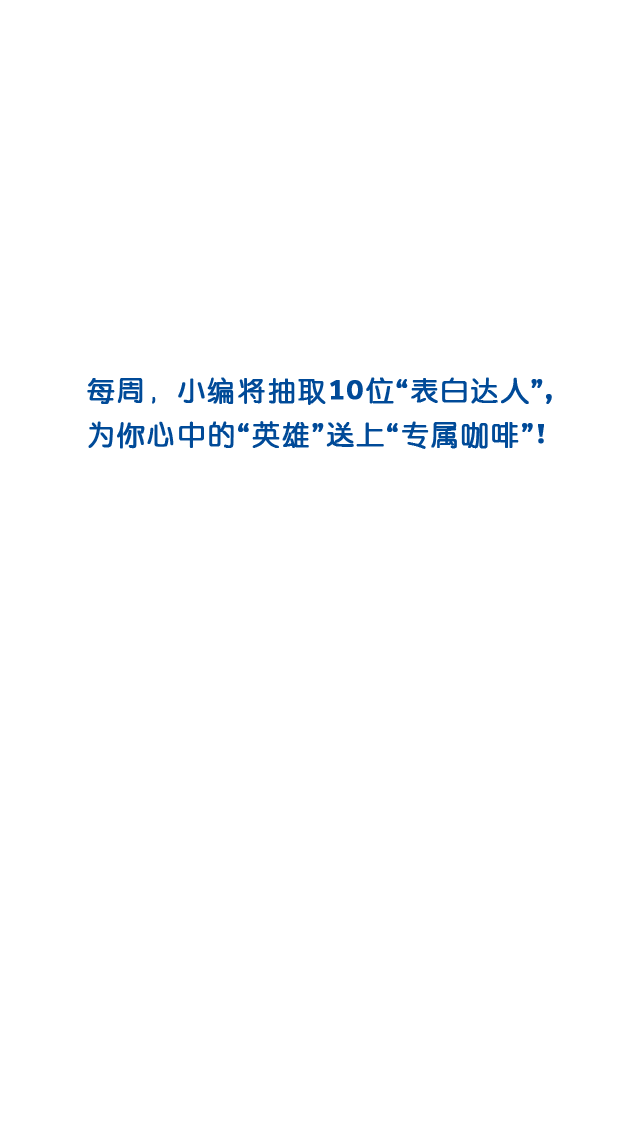
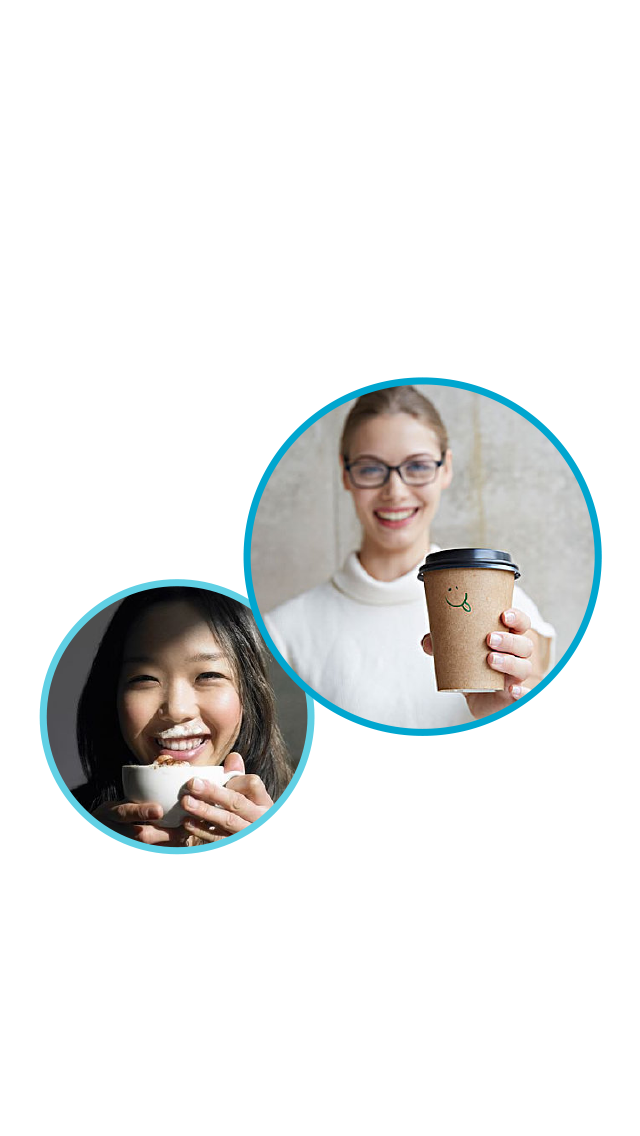
moha 7.x-1.0-dev
- Moha Message: merge design.

Changed region(s): [[0.0625, 0.3081, 0.9375, 0.7702]]

diff --git a/modules/moha_message/templates/moha_message_wall_say_thank_you.tpl.php b/modules/moha_message/templates/moha_message_wall_say_thank_you.tpl.php
@@ -1,19 +1,114 @@
+<style>
+  @keyframes rotating {
+    from {
+      transform: rotate(0deg)
+    }
+    to {
+      transform: rotate(360deg)
+    }
+  }
+
+  @-moz-keyframes rotating {
+    from {
+      -moz-transform: rotate(0deg)
+    }
+    to {
+      -moz-transform: rotate(360deg)
+    }
+  }
+
+  #moha-music-wrap {
+    position: absolute;
+    z-index: 200;
+    top: 20px;
+    left: 20px;
+    width: 50px;
+    height: 50px;
+    background-size: contain;
+  }
+
+  #moha-music-wrap.rotate {
+    background-image: url("/sites/all/modules/custom/moha/img/music.gif");
+  }
+
+  #moha-music-button {
+    width: 30px;
+    height: 30px;
+    background: url("/sites/all/modules/custom/moha/img/music.svg") no-repeat;
+    background-size: contain;
+  }
+
+  .rotate #moha-music-button {
+    -webkit-animation: rotating 1.2s linear infinite;
+    -moz-animation: rotating 1.2s linear infinite;
+    -o-animation: rotating 1.2s linear infinite;
+    animation: rotating 1.2s linear infinite;
+  }
+
+  #logo {
+    position: absolute;
+    right: 10px;
+    top: 10px;
+    z-index: 200;
+  }
+
+  #logo img {
+    width: 50px;
+  }
+
+  img.melody {
+    margin-top: -20px;
+  }
+
+  .background {
+    height: 100%;
+    width: 100%;
+  }
+
+  .background img {
+    height: 100%;
+    width: 100%;
+  }
+
+  .moha-1-arrow {
+    margin-bottom: -20px;
+  }
+
+  .moha-2-arrow {
+    margin-left: -45%;
+    margin-bottom: -20px;
+  }
+</style>
+
+<div id="moha-music-wrap">
+  <div id="moha-music-button">
+    <audio id="moha-music" autoplay preload="auto" loop="loop" src="https://gestorage.blob.core.chinacloudapi.cn/campaign/20180515/389429-Uplifting-Joyful-Funny.mp3"></audio>
+  </div>
+</div>
+<div id="logo"><img src="https://gestorage.blob.core.chinacloudapi.cn/campaign/common/ge-logo-blue.png"></div>
 <div id="moha-message-wall-say-thank-you" class="swiper-container">
   <div class="swiper-wrapper">
     <div class="moha-message-cover-html swiper-slide">
-      <div class="moha-message-cover-next">
-        <img src="/sites/all/modules/custom/moha/modules/moha_message/img/message-cover-1-button.png">
+      <div class="moha-message-cover-next background">
+        <img src="/sites/all/modules/custom/moha/modules/moha_message/img/message-cover-1-background.jpg">
       </div>
+      <div class="moha-message-cover-next"><img class="moha-1-arrow" src="https://gestorage.blob.core.chinacloudapi.cn/campaign/20180515/arrow-down.gif"></div>
       <img src="/sites/all/modules/custom/moha/modules/moha_message/img/message-cover-1-contents.png">
-      <div id="moha-message-contents-header"><img src="/sites/all/modules/custom/moha/modules/moha_message/img/message-cover-1-header.png"></div>
+      <div id="moha-message-contents-header"><img class="melody" src="https://gestorage.blob.core.chinacloudapi.cn/campaign/20180515/melody.gif"></div>
     </div>
+
+
     <div class="moha-message-cover-html swiper-slide">
-      <div class="moha-message-cover-next">
-        <img src="/sites/all/modules/custom/moha/modules/moha_message/img/message-cover-2-next.png">
+      <div class="moha-message-cover-next background">
+        <img src="/sites/all/modules/custom/moha/modules/moha_message/img/message-cover-1-background.jpg">
       </div>
+      <div class="moha-message-cover-next"><img class="moha-2-arrow" src="https://gestorage.blob.core.chinacloudapi.cn/campaign/20180515/arrow-down.gif"></div>
+      <div class="moha-message-cover-next"><img class="moha-22-arrow" src="https://gestorage.blob.core.chinacloudapi.cn/campaign/20180515/couple.gif"></div>
       <img src="/sites/all/modules/custom/moha/modules/moha_message/img/message-cover-2-contents.png">
       <div id="moha-message-contents-header"><img src="/sites/all/modules/custom/moha/modules/moha_message/img/message-cover-2-header.png"></div>
     </div>
+
+
     <div class="moha-message-contents-placeholder swiper-slide">
       <div class="moha-message-contents alertify-logs"></div>
       <div id="moha-message-contents-header"><img src="/sites/all/modules/custom/moha/modules/moha_message/img/message-contents-header.png"></div>
@@ -25,6 +120,7 @@
       <div class="moha-message-cover-next">
         <img src="/sites/all/modules/custom/moha/modules/moha_message/img/message-success-next.jpg">
       </div>
+      <div class="moha-message-cover-next"><img class="moha-22-arrow" src="https://gestorage.blob.core.chinacloudapi.cn/campaign/20180515/coffee.gif"></div>
       <img src="/sites/all/modules/custom/moha/modules/moha_message/img/message-success-contents.png">
       <div id="moha-message-contents-header"><img src="/sites/all/modules/custom/moha/modules/moha_message/img/message-success-header.png"></div>
     </div>
@@ -33,8 +129,6 @@
     <p>Still empty message wall.</p>
   <?php endif; ?>
 </div>
-
-<audio autoplay loop src="https://gestorage.blob.core.chinacloudapi.cn/campaign/20180515/389429-Uplifting-Joyful-Funny.mp3" controls>
 
 <?php if (!empty($contents['messages'])): ?>
   <script src="<?php echo MOHA__PATH;?>/js/alertify.js"></script>
@@ -46,6 +140,38 @@
           // Add collapsible effect for image and video field.
           $('#moha-message-wall-say-thank-you', context).once('alertify-js', function () {
 
+            // Music initial.
+            document.addEventListener("WeixinJSBridgeReady", function () {
+              WeixinJSBridge.invoke('getNetworkType', {}, function (e) {
+                document.getElementById('moha-music').play();
+              });
+            }, false);
+
+            const audio = document.getElementById('moha-music');
+
+            audio.onplay = function(){
+              $musicButton.addClass('rotate');
+            };
+
+            audio.oncanplay = function() {
+              audio.play();
+              audio.oncanplay = function() {};
+            };
+
+            const $musicButton = $('#moha-music-wrap');
+
+            $musicButton.click(function () {
+
+              if (audio.paused !== false) {
+                audio.play();
+              }
+              else {
+                audio.pause();
+                $musicButton.removeClass('rotate');
+              }
+            });
+
+            // Change start slide after sumbit.
             let page = window.location.href.substr(window.location.href.lastIndexOf('/')+1, 1);
 
             if (page !== '2'){
